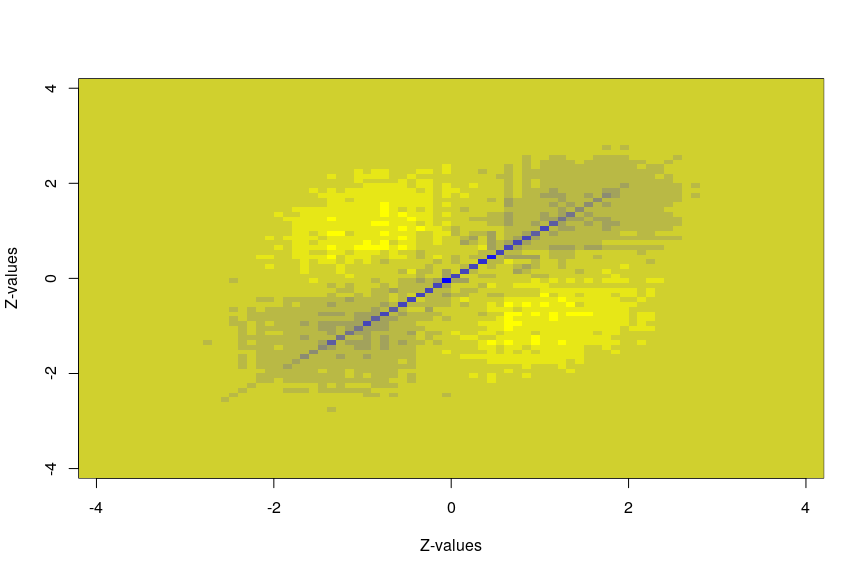
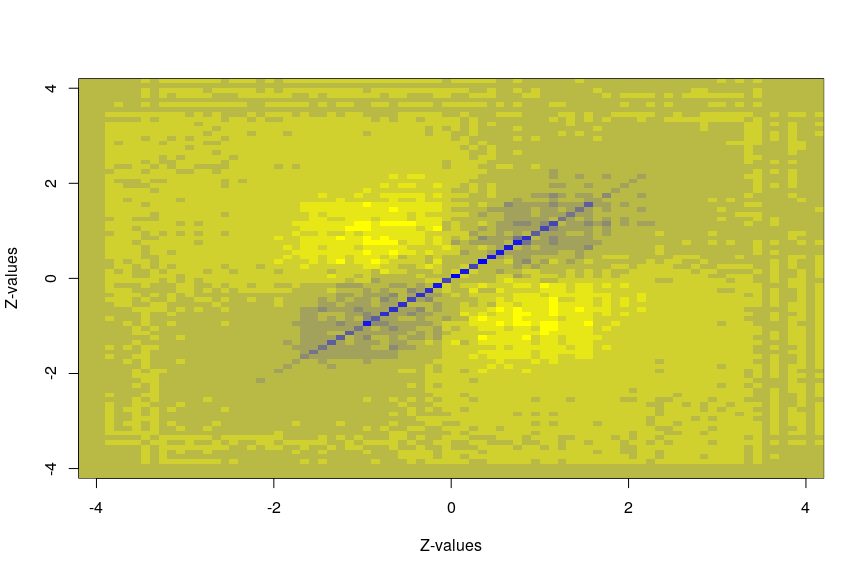
Readme again updated

diff --git a/README.md b/README.md
@@ -47,7 +47,7 @@ The method provides an estimate of the proportion of true null hypothesis, which
 fdrRes$p0
 ```
 
-    ## [1] 0.8661424
+    ## [1] 0.9019651
 
 The result of the procedure can be represented graphically as follows:
 
@@ -55,7 +55,7 @@ The result of the procedure can be represented graphically as follows:
 plotNull(fdrRes)
 ```
 
-![](README_figs/README-plotNull-1.png)
+![Illustration of the estimation of the collapsed null distribution through resampling. The observed test statistics are shown as a green histogram. The resample null candidates are plotted as dashed curves, with their colour indicating how much they contribute to the estimation of the collapsed null distribution. This estimated collapsed null density is shown as a solid curve. The standard normal density is shown as a dashed black line as a reference. The red dots represent observed test statistic, their height reflects their estimated tail-area false discovery rate. The black dot-dashed line is the estimated local false discoery rate.](README_figs/README-plotNull-1.png)
 
 It is also possible to provide a custom test function, which must accept at least a 'y' response variable and a 'x' grouping factor. Additionally, a distribution function should be supplied for transformation through quantiles to z-values.
 
@@ -93,7 +93,7 @@ quantile(FdrVDP)
 ```
 
     ##           0%          25%          50%          75%         100% 
-    ## 6.558191e-19 2.023308e-03 2.629081e-01 8.130213e-01 9.544556e-01
+    ## 2.675925e-20 1.493440e-03 2.834575e-01 7.854286e-01 9.189947e-01
 
 An approximation of the correlation matrix of the test statistics can be drawn as follows:
 
